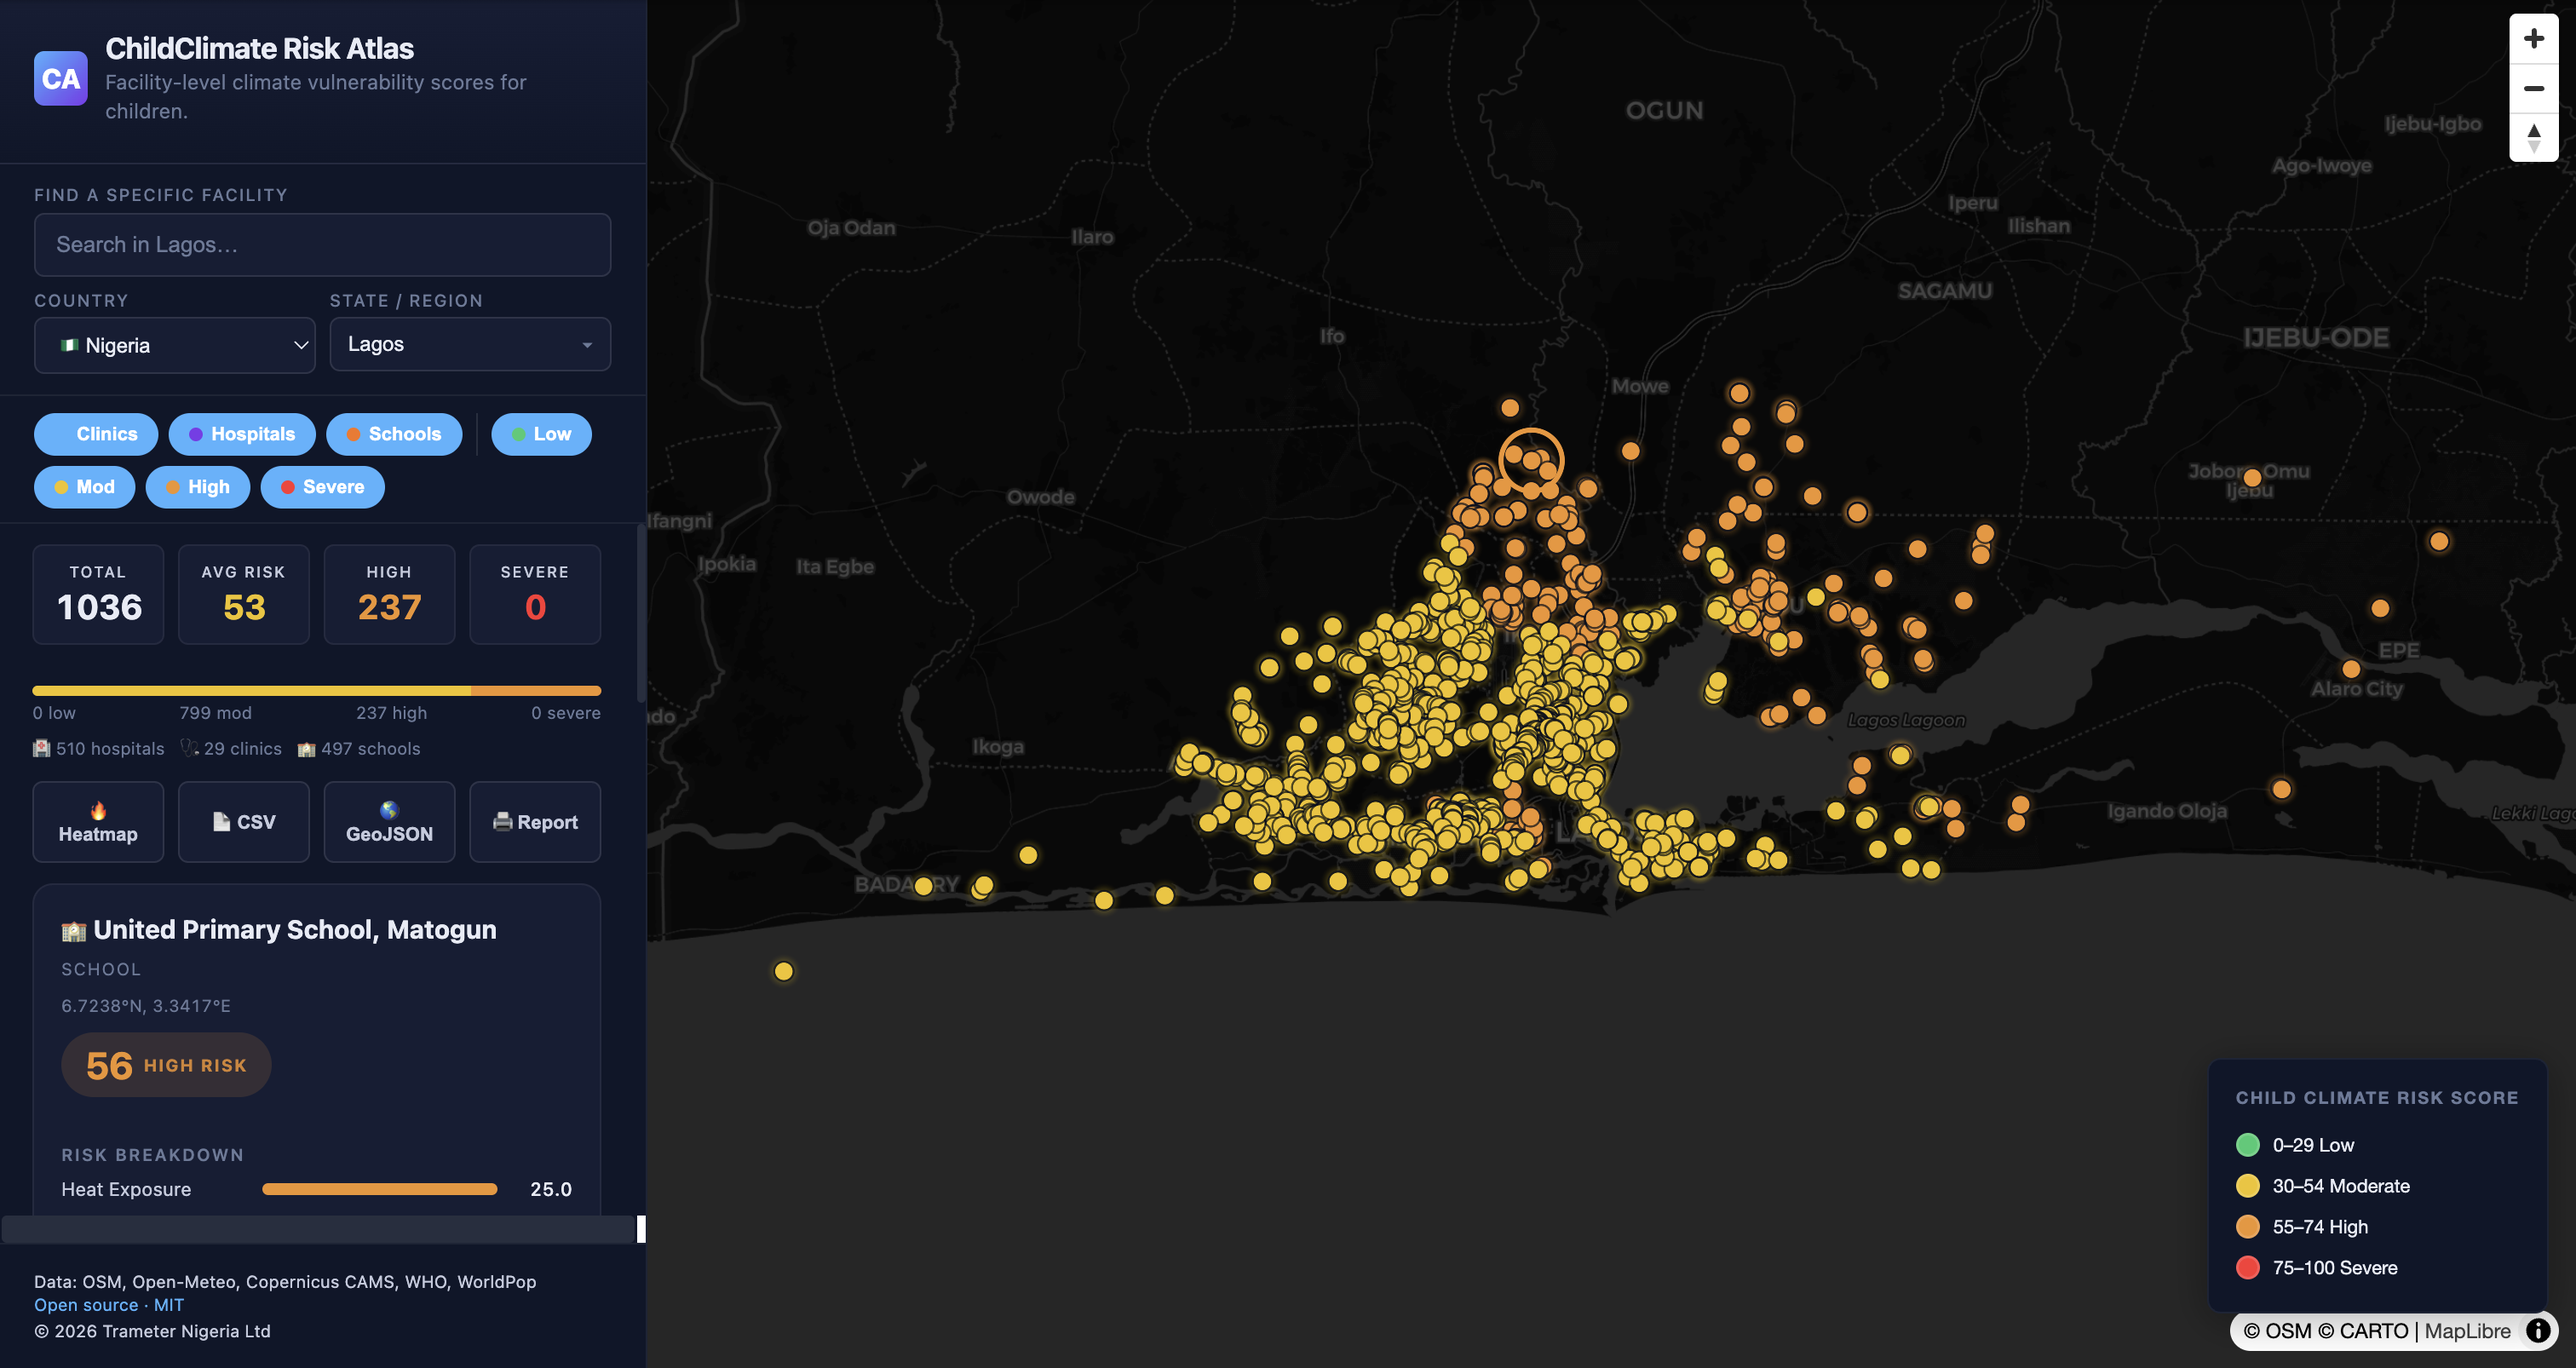
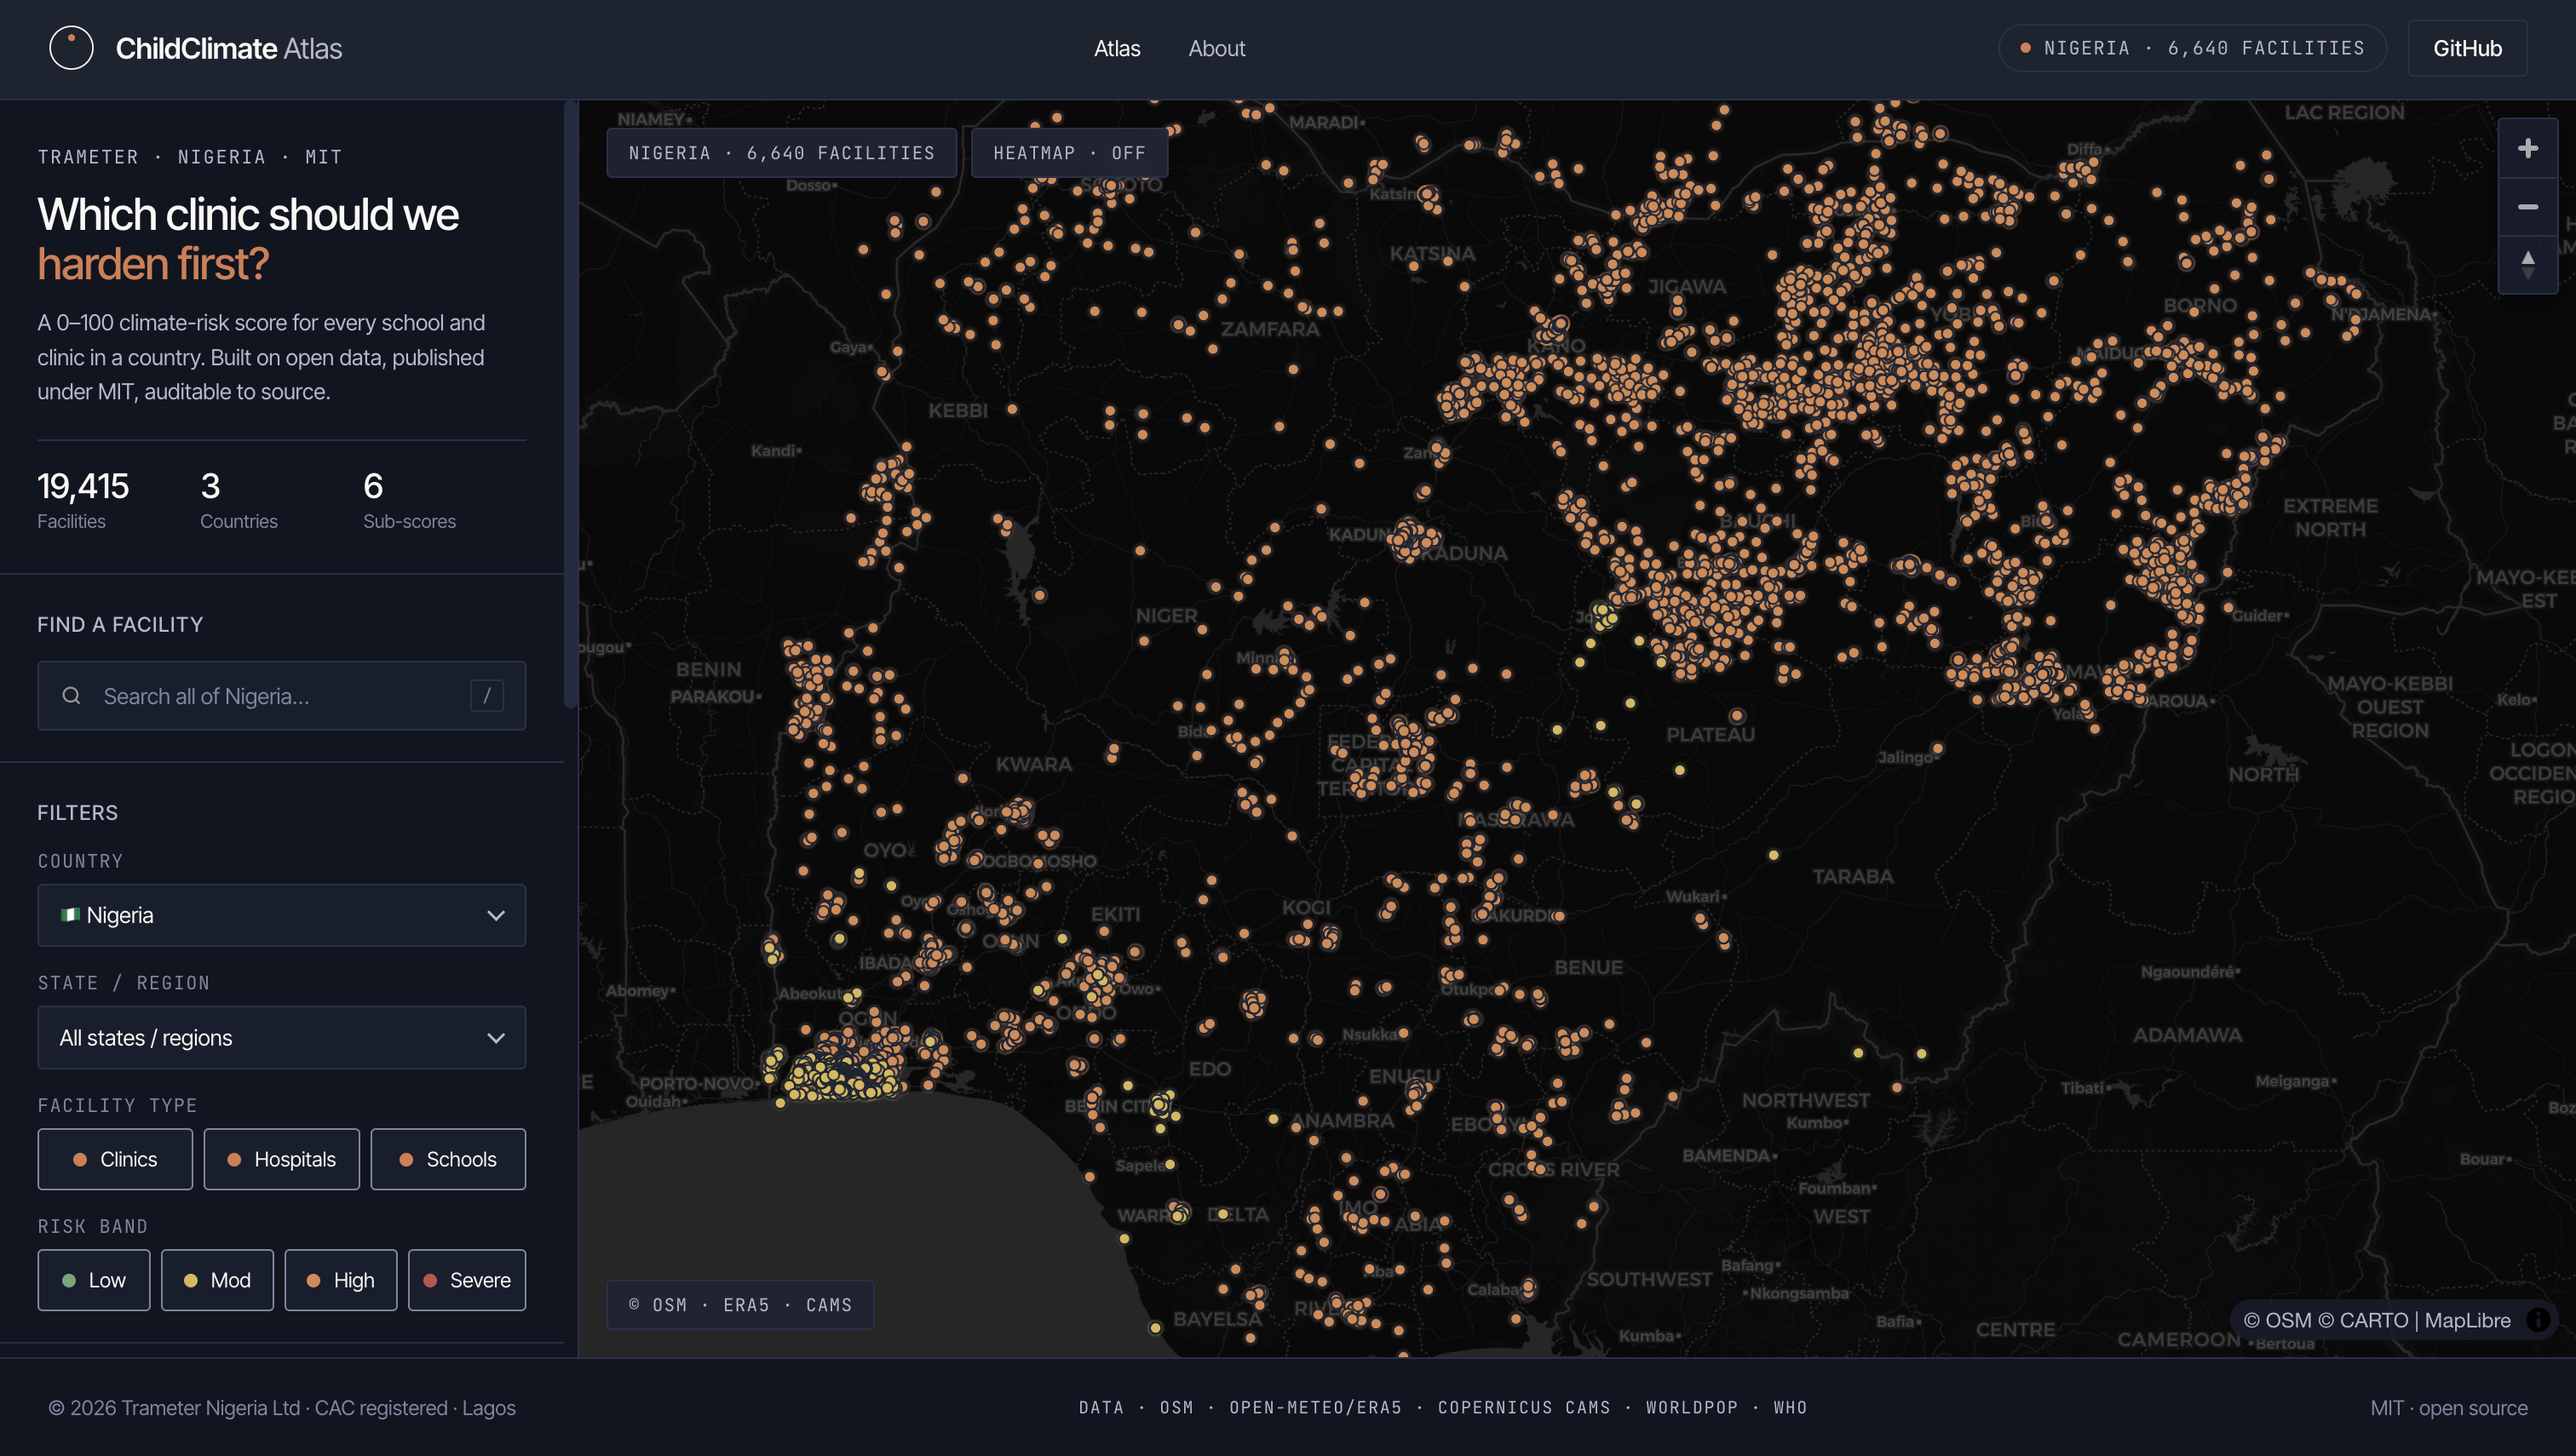
docs: refresh README screenshot + caption for new design
Replaced docs/atlas-screenshot.png with a current screenshot of the
redesigned atlas (ink/paper/ember theme, 3-column layout, topbar with
brand + nav, facility-count chip). Updated the caption: the old one
referenced a Lagos-only view with United Primary School drilled down,
which no longer matches the image or the new national-default behavior.
New caption describes the Nigeria national view (6,446 facilities) and
invites the reader to switch country / filter / drill in.

diff --git a/README.md b/README.md
@@ -14,7 +14,7 @@ The Atlas is running at **[climate-atlas.trameter.com](http://climate-atlas.tram
 
 [![ChildClimate Risk Atlas — live at climate-atlas.trameter.com](./docs/atlas-screenshot.png)](http://climate-atlas.trameter.com/)
 
-<sub>Lagos State, Nigeria — 1,036 facilities scored, with *United Primary School, Matogun* (56 / 100 — high risk) open in the drill-down panel.</sub>
+<sub>Nigeria — 6,446 schools and clinics scored at a national view. Pick a country, narrow by state or facility type, and click any dot to open its risk breakdown and recommended actions.</sub>
 
 ---
 
